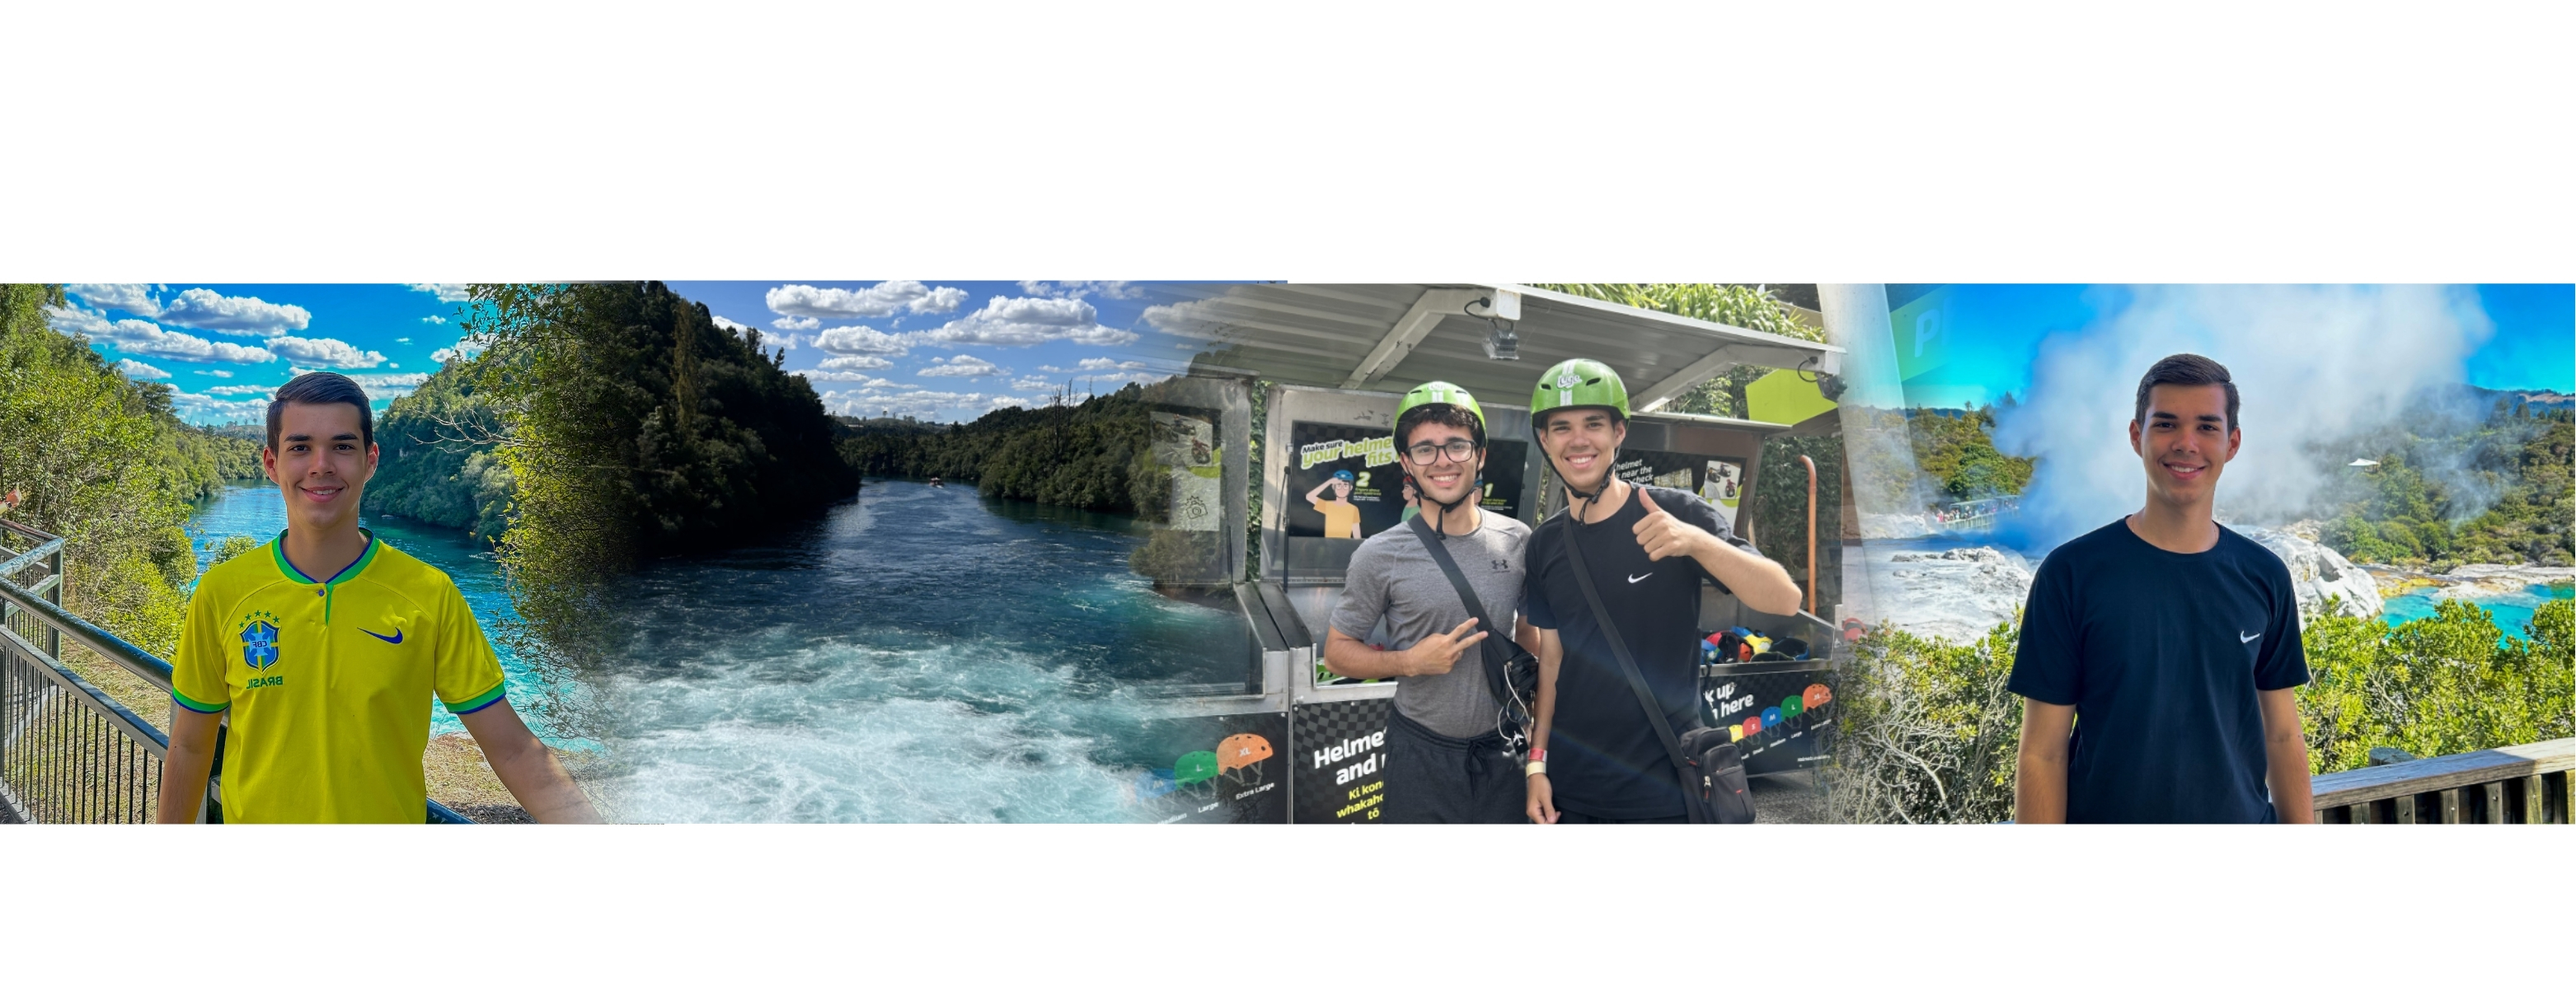
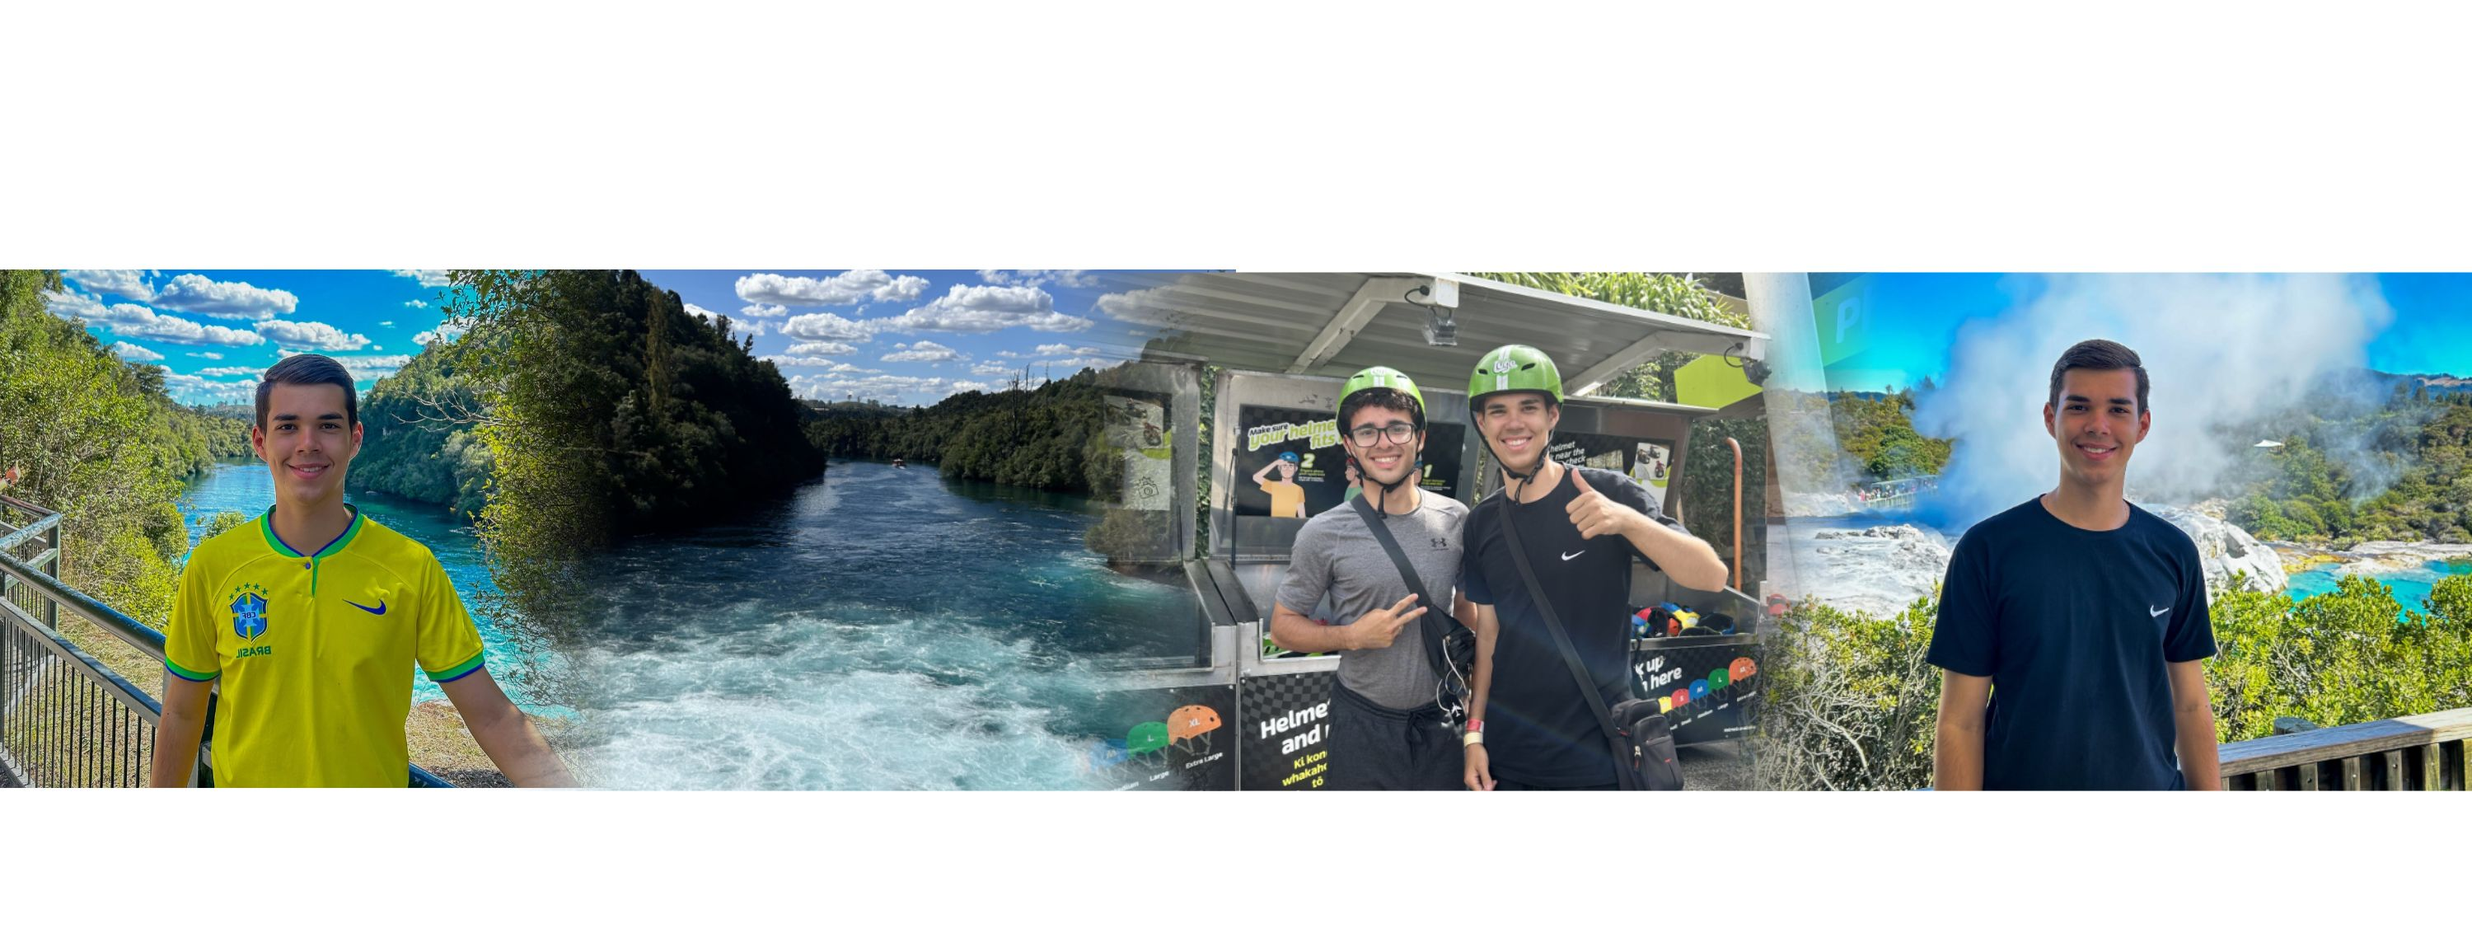
rotorua mobile

diff --git a/css/style.css b/css/style.css
@@ -2309,15 +2309,23 @@ html, body {
   }
 
   .certificados-page .content-block {
-    padding: 0.8rem;
-    margin-bottom: 1.2rem;
-    border-radius: 13px;
-  }
+  padding: 0.8rem 0.8rem 0.8rem;
+  margin-bottom: 1.2rem;
+  border-radius: 13px;
+}
 
-  .certificados-page .content-block h2 {
-    font-size: 0.95rem;
-    line-height: 1.4;
-  }
+.certificados-page .content-block h2 {
+  font-size: 0.95rem;
+  line-height: 1.4;
+  margin: 0 0 0.8rem !important;
+  padding: 0;
+}
+
+.certificados-page .certificados-gallery {
+  margin-top: 0 !important;
+  padding-top: 0 !important;
+}
+
 
   /* GALERIA - 3 CERTIFICADOS POR LINHA */
   .certificados-page .certificados-gallery {
@@ -2368,5 +2376,255 @@ html, body {
     margin: 1.5rem auto;
     font-size: 0.85rem;
     padding: 0.7rem 1.2rem;
+  }
+}
+
+/* =====================================
+   RESPONSIVIDADE - PÁGINA CATÓLICO
+===================================== */
+
+@media (max-width: 600px) {
+
+  /* CABEÇALHO */
+  .pagina-catolico .page-hero {
+    padding: 7rem 1.1rem 2rem;
+  }
+
+  .pagina-catolico .page-hero h1 {
+    font-size: 1.55rem;
+  }
+
+  .pagina-catolico .page-hero p {
+    font-size: 0.82rem;
+    line-height: 1.5;
+  }
+
+  /* SEÇÕES */
+  .pagina-catolico main.section {
+    padding: 1.5rem 0.8rem;
+  }
+
+  .pagina-catolico .content-block {
+    padding: 1rem;
+    margin-bottom: 1.2rem;
+    border-radius: 13px;
+  }
+
+  .pagina-catolico .content-block h2 {
+    font-size: 1rem;
+    line-height: 1.4;
+    margin-bottom: 0.7rem;
+  }
+
+  .pagina-catolico .content-block p {
+    font-size: 0.75rem;
+    line-height: 1.55;
+    margin-bottom: 0.7rem;
+  }
+
+  .pagina-catolico .content-block ul {
+    padding-left: 1rem;
+  }
+
+  .pagina-catolico .content-block li {
+    font-size: 0.75rem;
+    line-height: 1.5;
+    margin-bottom: 0.35rem;
+  }
+
+  /* GALERIAS DE FOTOS */
+  .pagina-catolico .gallery {
+    grid-template-columns: repeat(2, minmax(0, 1fr));
+    gap: 0.65rem;
+  }
+
+  .pagina-catolico .gallery-card {
+    min-width: 0;
+  }
+
+  .pagina-catolico .gallery-item {
+    width: 100%;
+    height: 145px;
+    object-fit: cover;
+  }
+
+  .pagina-catolico .caption {
+    font-size: 0.65rem;
+    line-height: 1.4;
+  }
+
+  /* LINHA DO TEMPO */
+  .pagina-catolico .timeline {
+    gap: 0.7rem;
+  }
+
+  .pagina-catolico .timeline-item {
+    padding: 0rem;
+  }
+
+  .pagina-catolico .timeline-item h4 {
+    font-size: 0.85rem;
+  }
+
+  .pagina-catolico .timeline-item p {
+    font-size: 0.72rem;
+    line-height: 1.45;
+  }
+
+  /* HABILIDADES */
+  .pagina-catolico .skills-grid {
+    grid-template-columns: repeat(2, minmax(0, 1fr));
+    gap: 0.65rem;
+  }
+
+  .pagina-catolico .skill-card {
+    min-width: 0;
+    padding: 0.8rem 0.65rem;
+  }
+
+  .pagina-catolico .skill-card h3 {
+    font-size: 0.7rem;
+    line-height: 1.3;
+  }
+
+  .pagina-catolico .skill-card p {
+    font-size: 0.6rem;
+    line-height: 1.4;
+  }
+
+  /* FRASE FINAL */
+  .pagina-catolico .destaque-final {
+    padding: 1rem;
+  }
+
+  .pagina-catolico .destaque-final p {
+    font-size: 0.85rem;
+    line-height: 1.5;
+  }
+
+  /* BOTÃO VOLTAR */
+  .pagina-catolico .btn-back {
+    display: flex;
+    width: fit-content;
+    margin: 1.5rem auto;
+    font-size: 0.85rem;
+    padding: 0.7rem 1.2rem;
+  }
+
+}
+
+/* =====================================
+   RESPONSIVIDADE - ROTORUA
+===================================== */
+
+@media (max-width: 600px) {
+
+  /* CABEÇALHO */
+  .pagina-rotorua .page-hero {
+    padding: 7rem 1.1rem 2rem;
+  }
+
+  .pagina-rotorua .page-hero h1 {
+    font-size: 1.65rem;
+  }
+
+  .pagina-rotorua .page-hero p {
+    font-size: 0.82rem;
+    line-height: 1.5;
+  }
+
+  /* CONTEÚDO */
+  .pagina-rotorua main.section {
+    padding: 1.5rem 0.8rem;
+  }
+
+  .pagina-rotorua .content-block {
+    padding: 1rem;
+    margin-bottom: 1.2rem;
+    border-radius: 13px;
+  }
+
+  .pagina-rotorua .content-block h2 {
+    font-size: 1rem;
+    line-height: 1.4;
+    margin-bottom: 0.7rem;
+  }
+
+  .pagina-rotorua .content-block h3 {
+    font-size: 0.88rem;
+    line-height: 1.4;
+    margin-top: 1.2rem !important;
+    margin-bottom: 0.6rem !important;
+  }
+
+  .pagina-rotorua .content-block p {
+    font-size: 0.75rem;
+    line-height: 1.55;
+    margin-bottom: 0.7rem;
+  }
+
+  .pagina-rotorua .content-block ul {
+    padding-left: 1rem;
+  }
+
+  .pagina-rotorua .content-block li {
+    font-size: 0.75rem;
+    line-height: 1.5;
+    margin-bottom: 0.35rem;
+  }
+
+  /* LINKS DOS VÍDEOS */
+  .pagina-rotorua .links-area {
+    padding: 0.1rem;
+    margin-top: 1rem;
+  }
+
+  .pagina-rotorua .links-area h4 {
+    font-size: 0.85rem;
+  }
+
+  .pagina-rotorua .links-area li {
+    font-size: 0.75rem;
+    line-height: 1.5;
+    margin-top: 0.4rem
+  }
+
+  /* GALERIAS */
+  .pagina-rotorua .gallery {
+    grid-template-columns: repeat(2, minmax(0, 1fr));
+    gap: 0.65rem;
+  }
+
+  .pagina-rotorua .gallery-card {
+    min-width: 0;
+  }
+
+  .pagina-rotorua .gallery-item {
+    width: 100%;
+    height: 145px;
+    object-fit: cover;
+  }
+
+  /* ESPAÇAMENTO ENTRE OS DIAS */
+  .pagina-rotorua .content-block .gallery + h3 {
+    margin-top: 1.5rem !important;
+  }
+
+  /* BOTÃO VOLTAR */
+  .pagina-rotorua .btn-back {
+    display: flex;
+    width: fit-content;
+    margin: 1.5rem auto;
+    font-size: 0.85rem;
+    padding: 0.7rem 1.2rem;
+  }
+
+}
+
+/* AJUSTE DA CAPA ROTORUA NO CELULAR */
+@media (max-width: 600px) {
+  .hero-rotorua {
+    background-size: auto 150%;
+    background-position: center;
   }
 }

diff --git a/pages/experiencias/rotorua.html b/pages/experiencias/rotorua.html
@@ -8,7 +8,7 @@
   <link href="https://fonts.googleapis.com/css2?family=Poppins:wght@300;400;500;600;700&display=swap" rel="stylesheet" />
   <link rel="stylesheet" href="../../css/style.css" />
 </head>
-<body>
+<body class="pagina-rotorua">
 
   <header class="header">
     <nav class="nav-container">

diff --git a/pages/catolico.html b/pages/catolico.html
@@ -20,7 +20,7 @@
   <link rel="stylesheet" href="../css/style.css" />
 </head>
 
-<body>
+<body class="pagina-catolico">
 
   <!-- HEADER -->
   <header class="header">
